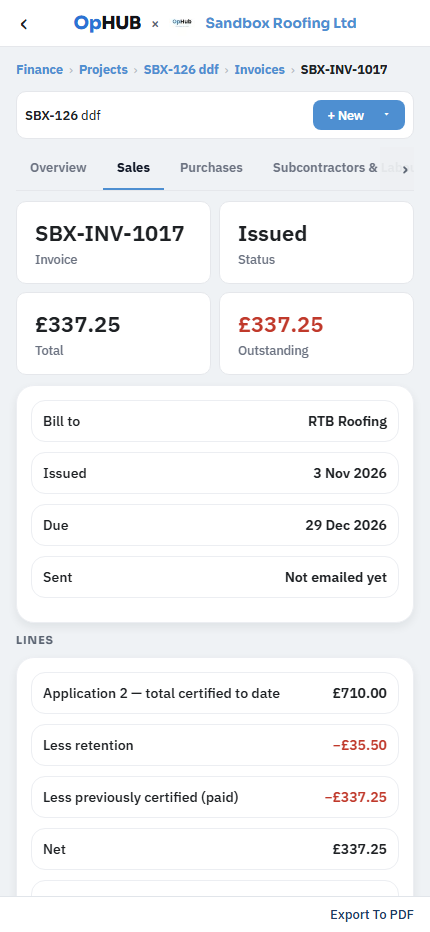
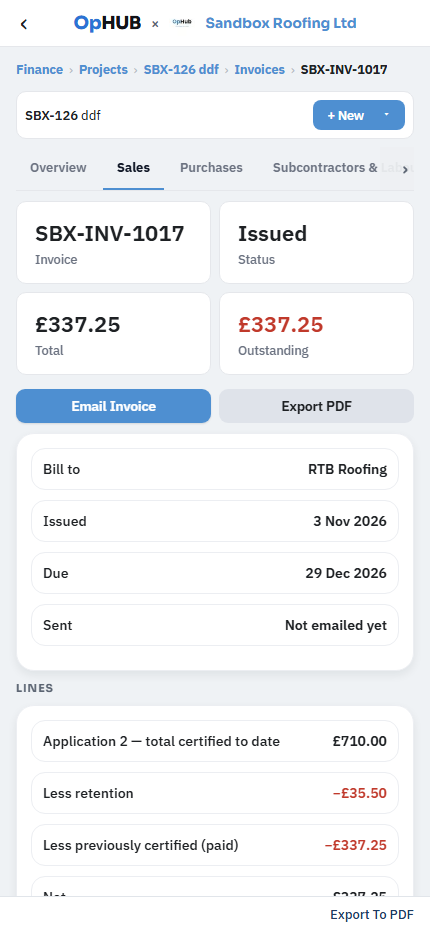
Issued invoice: Email Invoice and Export PDF sit under the totals.
Claude-Session: https://claude.ai/code/session_012KhfNvBEbifMJmPdX7yZfp

diff --git a/app-native/src/app/(app)/fin/job/[id]/invoice/[inv].tsx b/app-native/src/app/(app)/fin/job/[id]/invoice/[inv].tsx
@@ -254,6 +254,12 @@ function Issued({ inv, pays, site }: { inv: Row; pays: Row[]; site: Row | undefi
         <FinStat v={inv.number || '—'} label="Invoice" /><FinStat v={invOverdue(inv as never) ? 'Overdue' : INV_STATUS[inv.status] || inv.status} label="Status" hot={invOverdue(inv as never)} />
         <FinStat v={money(inv.total)} label="Total" /><FinStat v={money(out)} label="Outstanding" hot={out > 0} />
       </View>
+      {inv.status !== 'void' && (
+        <View style={{ flexDirection: 'row', gap: 8, marginBottom: 10 }}>
+          <View style={{ flex: 1 }}><Button title="Email Invoice" onPress={() => setMailing(true)} /></View>
+          <View style={{ flex: 1 }}><Button kind="ghost" title="Export PDF" onPress={() => void openPdf()} /></View>
+        </View>
+      )}
       <Card>
         <FinRow title="Bill to" right={inv.bill_name || site?.client_name || '—'} /><FinRow title="Issued" right={fdate(inv.issue_date)} /><FinRow title="Due" right={fdate(inv.due_date)} />
         <FinRow title="Sent" right={inv.sent_at ? `${fdate(String(inv.sent_at).slice(0, 10))}${inv.sent_to ? ` to ${inv.sent_to}` : ''}` : 'Not emailed yet'} />
@@ -276,12 +282,6 @@ function Issued({ inv, pays, site }: { inv: Row; pays: Row[]; site: Row | undefi
         <FinRow title="Net" right={money(t.net)} /><FinRow title="VAT" right={money(t.vat)} /><FinRow title="Total" right={money(t.total)} />
         {t.vatDue ? <Muted>Reverse charge VAT {money(t.vatDue)} — paid by the client to HMRC.</Muted> : null}
       </Card>
-      {inv.status !== 'void' && (
-        <View style={{ flexDirection: 'row', gap: 8, marginTop: 4, marginBottom: 12 }}>
-          <View style={{ flex: 1 }}><Button title="Email Invoice" onPress={() => setMailing(true)} /></View>
-          <View style={{ flex: 1 }}><Button kind="ghost" title="Export PDF" onPress={() => void openPdf()} /></View>
-        </View>
-      )}
       {mailing && (
         <FinEmailPopup kind="invoice" title={`Email Invoice ${inv.number || ''}`} to={inv.bill_email || site?.client_email || ''}
           note="The invoice PDF goes with it."
